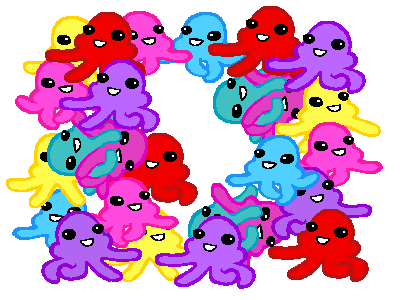
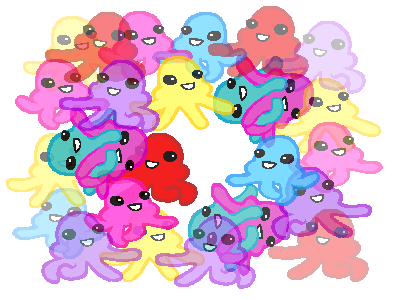
god tier levelup redone

diff --git a/javascripts/Scenes/levelthehellup.js b/javascripts/Scenes/levelthehellup.js
@@ -44,12 +44,12 @@ function LevelTheHellUp(session){
 		var repeatTime = 1000;
 		var divID = (div.attr("id")) + "_" + player.chatHandle+boonies; //even if same chat handle, odds of same boonies is low.
 		var narrationHTML = "<br><div id = 'narration" + divID + "'></div>";
-		var canvasHTML = "<br><canvas id='canvas" + divID+"' width='" +canvasWidth + "' height="+canvasHeight + "'>  </canvas>";
+
 		div.append(narrationHTML);
-		div.append(canvasHTML);
+
 		var narrationDiv = $("#narration"+divID);
 		//different format for canvas code
-		var canvasDiv = document.getElementById("canvas"+ divID);
+
 
 		if(levelName){
 			narration += " The " + player.htmlTitle();
@@ -59,8 +59,17 @@ function LevelTheHellUp(session){
 		}
 		narrationDiv.append(narration);
 		//pause between characters, to give time to render.
-		if(levelName){
-				drawLevelUp(canvasDiv, player,repeatTime)
+		if(levelName &&!player.godTier){
+				var canvasHTML = "<br><canvas id='canvas" + divID+"' width='" +canvasWidth + "' height="+canvasHeight + "'>  </canvas>";
+				div.append(canvasHTML);
+			  var canvasDiv = document.getElementById("canvas"+ divID);
+				drawLevelUp(canvasDiv, player)
+		}else if(levelName && player.godTier){
+			//god tier has to be taller.
+			var canvasHTML = "<br><canvas id='canvas" + divID+"' width='" +1000 + "' height="+572 + "'>  </canvas>";
+			div.append(canvasHTML);
+			var canvasDiv = document.getElementById("canvas"+ divID);
+			drawLevelUpGodTier(canvasDiv, player)
 		}
 
 	}

diff --git a/javascripts/handle_sprites.js b/javascripts/handle_sprites.js
@@ -94,7 +94,7 @@ function rainbowSwap(canvas){
 			img_data.data[i+1] = img_data_rainbow.data[4 *Math.floor(i/(4000))+1]
 			img_data.data[i+2] =img_data_rainbow.data[4 *Math.floor(i/(4000))+2]
 			img_data.data[i+3] = getRandomIntNoSeed(100,255); //make it look speckled.
-			
+
 		}
 	}
 	ctx.putImageData(img_data, 0, 0);
@@ -561,10 +561,10 @@ function drawLevelUpGodTier(canvas, player,repeatTime){
 	//drawBG(levelBuffer, "#ff0000", "#00ff00");
 	writeLevelGod(levelBuffer, player);
 
-	copyTmpCanvasToRealCanvasAtPos(canvas, symbolBuffer,150,0)
-	copyTmpCanvasToRealCanvasAtPos(canvas, godBuffer,0,230)
-	copyTmpCanvasToRealCanvasAtPos(canvas, pSpriteBuffer,100,-50)
-	copyTmpCanvasToRealCanvasAtPos(canvas, levelBuffer,0,235)
+	copyTmpCanvasToRealCanvasAtPos(canvas, symbolBuffer,165,0)
+	copyTmpCanvasToRealCanvasAtPos(canvas, godBuffer,100,0)
+	copyTmpCanvasToRealCanvasAtPos(canvas, pSpriteBuffer,100,0)
+	copyTmpCanvasToRealCanvasAtPos(canvas, levelBuffer,-200,290) //265 is perfectly lined on rainbow //300 is a little too far down.
 }
 
 function drawGodSymbolBG(canvas, player){

diff --git a/index2.html b/index2.html
@@ -78,7 +78,7 @@
 		<canvas id="canvas_template" width="1000" height="300">  </canvas>
 		<canvas id="rainbow_template" width="1" height="300">  </canvas>
 		<canvas id="chat_text_template" width="472" height="239">  </canvas>
-		<canvas id="godtierlevelup_template" width="650" height="151">  </canvas>
+		<canvas id="godtierlevelup_template" width="1000" height="572">  </canvas>
 		<img id="loading.png" src = "images/loading.png" style="display:none">
 		<div id = "image_staging">  </div>
 		<div id = "loading_image_staging">  </div>
